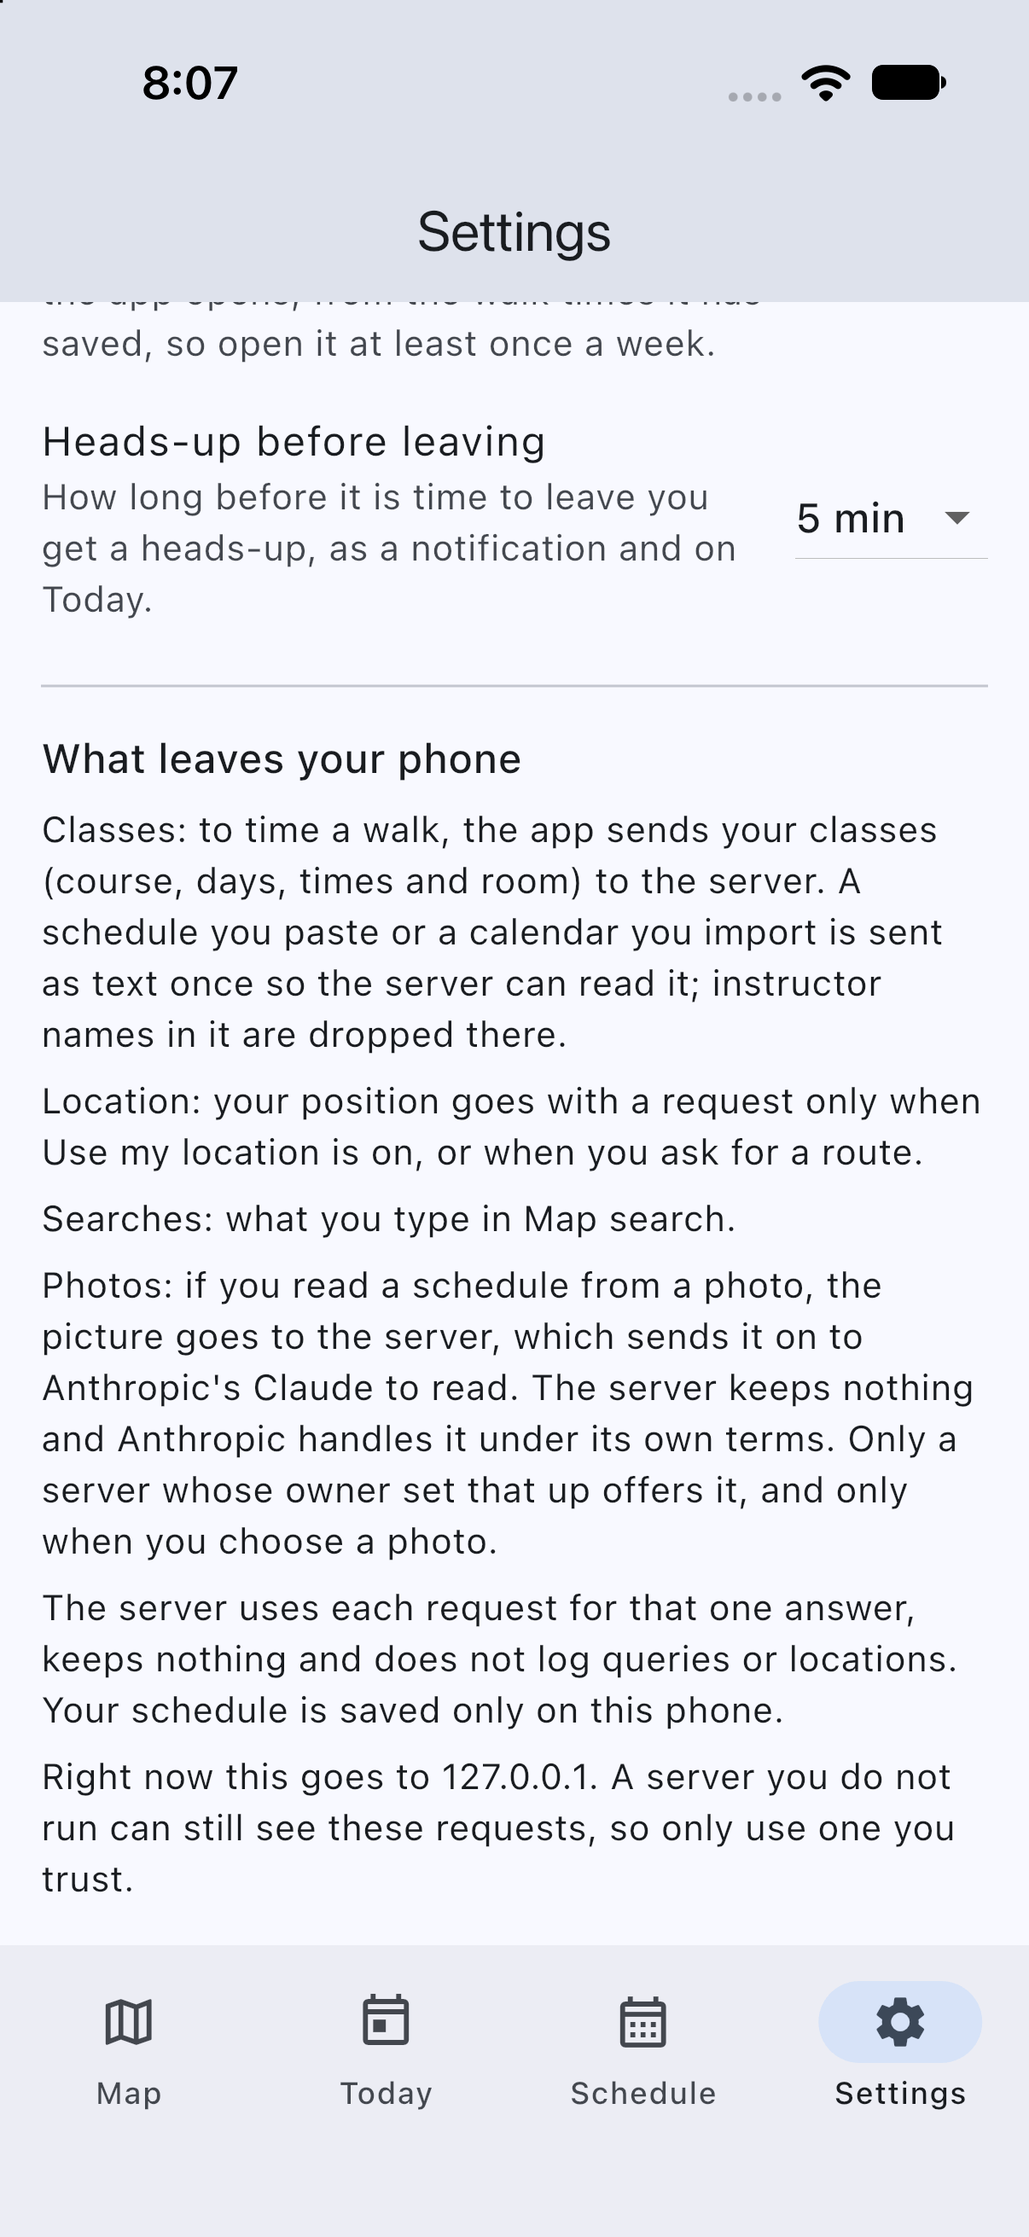
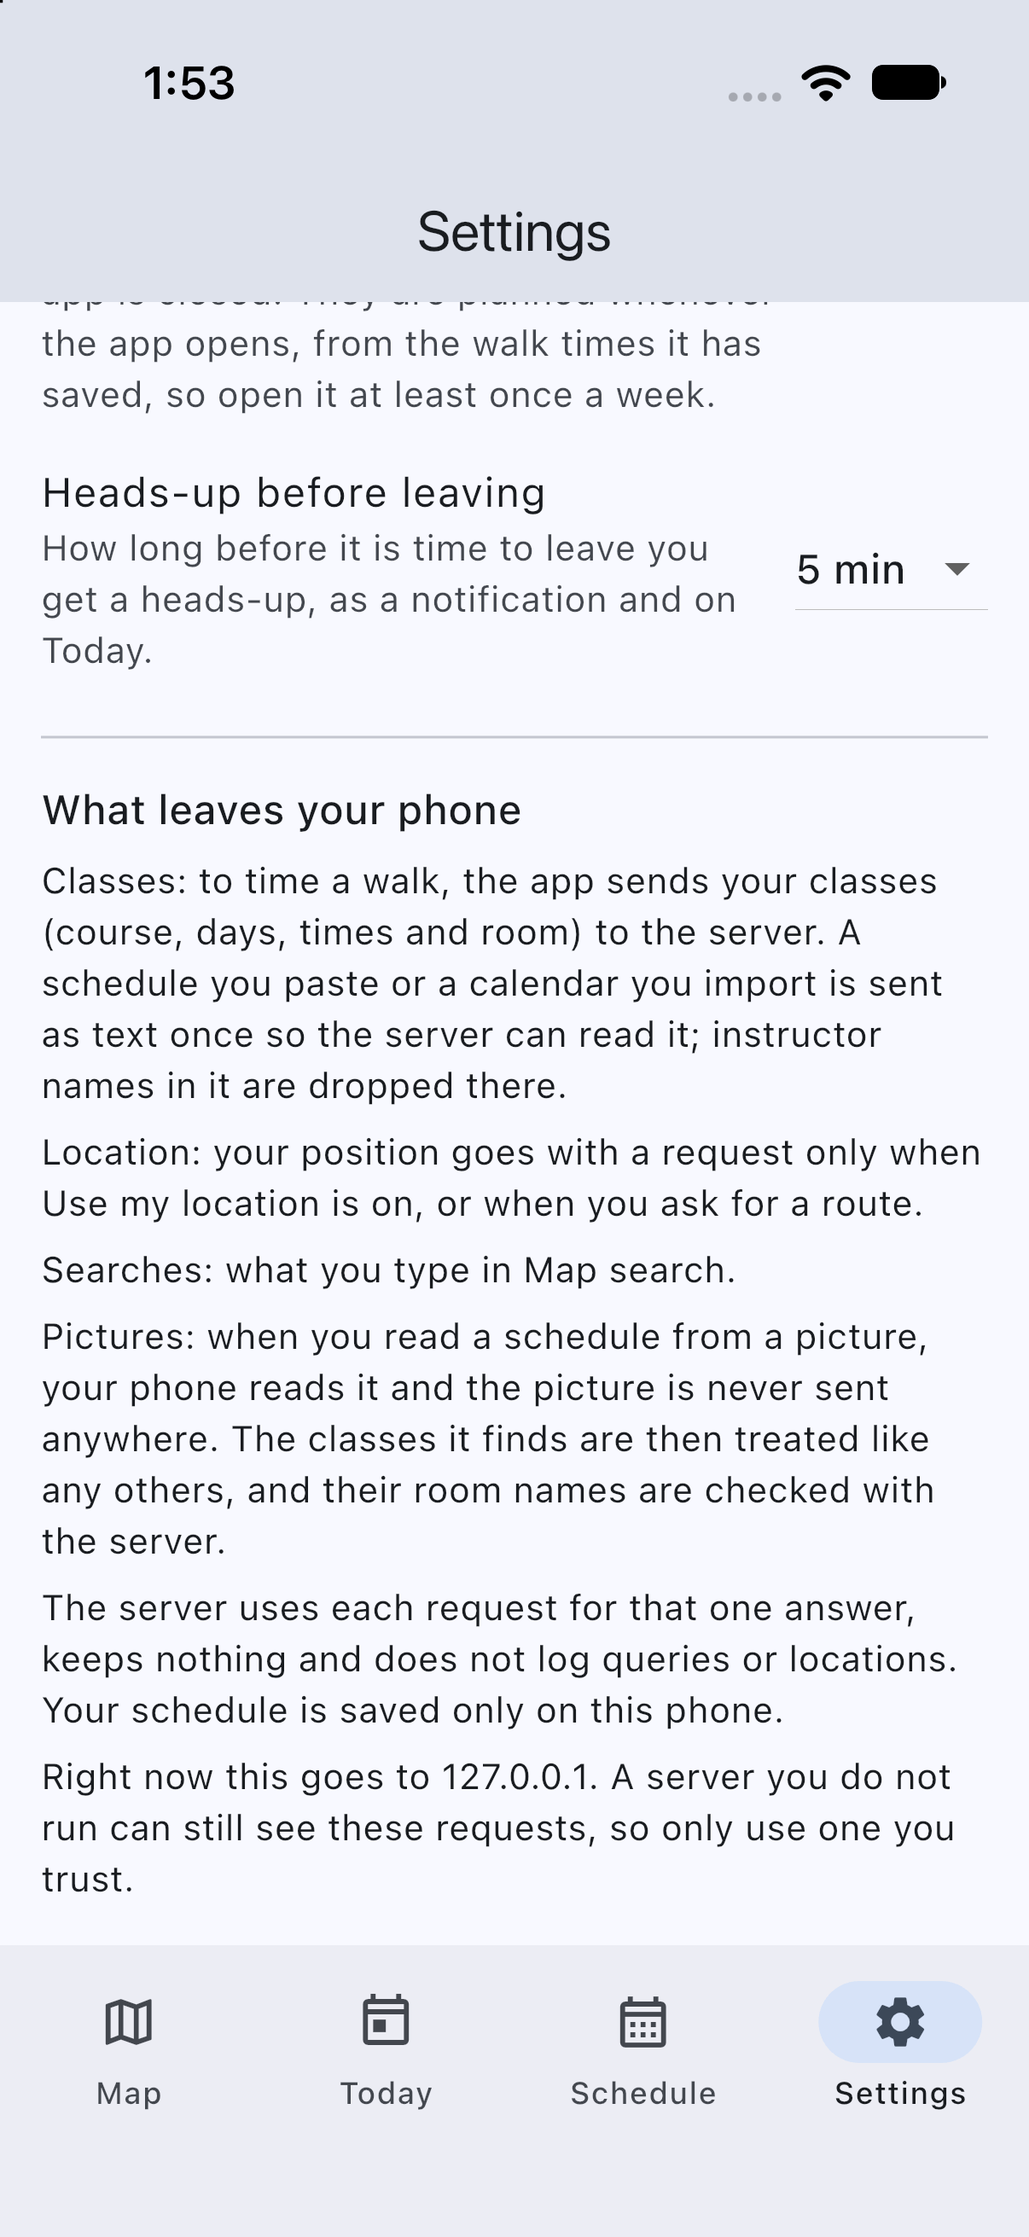
docs: describe reading a schedule from a picture

diff --git a/README.md b/README.md
@@ -6,7 +6,7 @@ Many UCSC classrooms (Baskin Engineering, Thimann Labs, and more) don't appear i
 
 - **Map**: search a room or building ("BE 152", "kresge 3201", "Thimann 101"), see where it is, get a route. No schedule or sign-up needed.
 - **Today**: import your class schedule and see what's now and next, how long the walk is, whether you have time, and when to leave. Works offline from saved walk times.
-- **Schedule**: paste your MyUCSC schedule, import a calendar (`.ics`) file, or add classes by hand. It stays on your phone.
+- **Schedule**: paste your MyUCSC schedule, import a calendar (`.ics`) file, read a screenshot or photo of it (on iOS, on the phone itself: free, private, works offline, needs no account or key), or add classes by hand. It stays on your phone.
 
 | Map search | Route | Today | Offline | Week view |
 |---|---|---|---|---|
@@ -16,17 +16,50 @@ _Captured on 2026-10-19 in the iOS Simulator (iPhone 17) with the simulator's lo
 
 ## Status
 
-As of October 2026. The routing engine, server, data pipeline and Android/iOS app code are working and tested (hundreds of automated tests across C, Python and Dart, run in CI). The app is covered by widget tests and by integration tests that run in the iOS Simulator ([how](docs/developer-notes.md#simulator-checks)). It has **not been run on a physical device**, so real GPS accuracy and notification timing are unverified, and notifications were not exercised in the simulator either. Photo import (screenshot to schedule) reads the picture on the phone, and has only been tried on invented schedules in the Simulator, see [developer notes](docs/developer-notes.md#photo-import).
+As of October 2026. The routing engine, server, data pipeline and Android/iOS app code are working and tested (hundreds of automated tests across C, Python and Dart, run in CI). The app is covered by widget tests and by integration tests that run in the iOS Simulator ([how](docs/developer-notes.md#simulator-checks)). It has **not been run on a physical device**, so real GPS accuracy and notification timing are unverified, and notifications were not exercised in the simulator either. Photo import (screenshot to schedule) reads the picture on the phone and has only been tried on invented schedules in the Simulator, see [Reading a schedule from a picture](#reading-a-schedule-from-a-picture).
 
 | Area | State |
 |---|---|
 | Room and building search | Working: abbreviations, partial names, typos (`/api/search`) |
 | Routing | Working: real walking paths from OpenStreetMap, elevation-aware effort, optional avoid-stairs. Straight-line distance inside buildings; floors are shown but not routed |
 | Today, week view, schedule import (paste, calendar file, by hand), reminders, day picker | Working. Reminders cover every class over the next week and are planned when the app opens; delivery is not verified on a device |
-| Photo import | iOS only. "Read a photo" on the Schedule tab reads a screenshot or photo on the phone with Apple's Vision framework, then lists the classes for you to check before anything is saved. The picture never leaves the phone, and no account or key is involved. Tried only on invented schedules in the Simulator, not on a real device or a real schedule. Not available on Android |
+| Photo import | iOS only. "Read a photo" on the Schedule tab reads a screenshot or photo on the phone with Apple's Vision framework, then lists the classes for you to check before anything is saved. The picture never leaves the phone, and no account or key is involved. Measured on invented schedules in the Simulator ([results](#reading-a-schedule-from-a-picture)); not tried on a real device, a real photo or a real schedule. Not available on Android |
 | Offline | Today works offline; search, map and routes need the server |
 | Data | 32 buildings and the 87 general-assignment classrooms. Other rooms resolve to their building's nearest door |
 | Not built | Saved places, campus shuttle/bus, a map overlay of buildings and doors |
+
+## Reading a schedule from a picture
+
+On iOS, **Read a photo** on the Schedule tab takes a screenshot or photo of your schedule (the MyUCSC Class Schedule page, or a phone calendar or timetable app). The phone reads it itself with Apple's Vision text recognition, and Dart code in the app turns the text into classes. It is free and needs no account or key, and the reading itself works offline. The picture never leaves the phone; afterwards only the room names it found are sent to the server, to check that it can place them, as it does for any class. (Without the server you can still choose the dates and save what was read.)
+
+| Check your classes | A class to look at |
+|---|---|
+| <img src="docs/screenshots/12-import-review.png" width="200" alt="The Check your classes screen listing three classes read from an invented picture"> | <img src="docs/screenshots/13-import-marked.png" width="200" alt="A class marked for the student to look at, with the room search's match one tap away"> |
+
+Nothing is saved until you tap Save on the **Check your classes** screen:
+
+- Each class can be edited (course, type, days, times, room, dates) or removed, with Undo. Cancel throws the whole import away.
+- A class the reading was not sure of is outlined and says why (`The days may be wrong`, `AM or PM was guessed`). A class that cannot be saved yet, such as one with no times, is outlined in red and Save waits.
+- A room the server cannot place is marked. The room search's best match is one tap away (`Use Porter Academic Building 148`), and `Find the room` opens the full search.
+- A picture that shows no dates (the card layouts tried here showed none) takes the term's dates from the server, or you choose them.
+
+**How well it works.** Invented schedules were drawn in six layouts (MyUCSC's page at several sizes, phone-style cards in light and dark, a compact table, an export with a row for each day, cards with everything on one line, and cards that label each field), read through the app in the iOS Simulator with the real Vision framework and a local server, and the review screen was compared with what each picture says. A class counts as right only if its course, days, start, end and room text all match. Each set was 23 pictures that had not been read before:
+
+| Layout | Set 1, before any fix | Set 2, after set 1's fixes | Set 3, final code |
+|---|---|---|---|
+| MyUCSC Class Schedule page | 20 of 26 | 18 of 30 | 28 of 28 |
+| Phone cards | 16 of 16 | 16 of 16 | 16 of 16 |
+| Compact table | 34 of 36 | 29 of 31 | 37 of 37 |
+| One row for each day | 20 of 23 | 20 of 21 | 20 of 20 |
+| Days, times and room on one line | 29 of 30 | 27 of 29 | 29 of 29 |
+| Cards that label each field | 12 of 12 | 12 of 12 | 11 of 12 |
+| **All** | **131 of 143 (92%)** | **122 of 139 (88%)** | **141 of 142 (99%)** |
+
+Set 1's mistakes led to the first repairs and set 2's to the rest; set 3 was read once, on the final code. Every wrong class was marked for review except two in set 1, where a course number read with a letter O split one class in two. The mistakes were mostly letters misread in room names (`Clrm` read as `CIrm`), an end time the phone did not read, and table headings it misread. In set 3, 24 of the 141 right classes were marked anyway, 17 of them because the server's schedule reader did not know the way the picture wrote a room (`BE 156` where it expects `J Baskin Engr 156`); the room search finds those.
+
+These are invented pictures in fonts and layouts the project chose, so they flatter real use: they say nothing about glare, a tilted photo of a screen, heavy compression, another app's layout or any language but English. It has not been tried on a real device, a real photo or a real schedule, and the system photo picker, a photo kept only in iCloud and a HEIC photo from the camera were not exercised. The pictures and the scripts that drew and scored them are not in the repository; the readings recorded from 22 pictures like them are, in `app/test/fixtures/ocr`, and run in CI. Reading takes about a second in the Simulator on a Mac. Android has no reader yet, so the button is not shown there.
+
+A picture that cannot be read says so and adds nothing: one with no text, text that is not a schedule, a blurry picture, or one over 120 megapixels. A very large picture is shrunk before it is read, and a table cut off part way down gives the rows that are there; each of these was tried in the Simulator.
 
 ## How it works
 

diff --git a/app/README.md b/app/README.md
@@ -10,7 +10,7 @@ Your classes, the walk to each, and when to leave. It is a thin client for the p
 - **Works offline**: when the server can't be reached, Today lists your classes, says what is now and next, and gives the walk times saved from the last time it could be reached (`WalkCache`). A blue "Offline" card at the top says so and how long ago the walk times were last updated (a warning once they are a week old), and the walk is worded "Saved walk time" so it is not mistaken for a live one. "Try again" asks the server again. Reminders already set stay set. It uses a Dart copy of the server's timetable logic; both are tested against the same cases in `server/testdata/schedule_cases.json`. A class you have never seen a walk time for shows no walk until you are back online.
 - **Saved view while the server answers**: when the phone already has walk times saved, Today shows them at once under an "Updating…" card instead of a bare spinner, and replaces them when the server answers (useful when a sleeping host takes a minute).
 - **Schedule**: paste from MyUCSC, import a calendar (.ics) file, read a picture of it, or add a class by hand. Saved on the phone only; instructor names are never kept.
-- **Read a photo** (iOS): choose a screenshot or photo of the schedule from the photo library and the phone reads it itself with Apple's Vision framework, then Dart code (`lib/features/schedule/ocr/`) rebuilds the classes from the lines and word positions it returns. The picture and its text never leave the phone, nothing is installed or paid for, and it works offline; only the room names are checked with the server afterwards. A "Check your classes" screen lists what was found before anything is saved: each class can be edited or removed, classes the reading was not sure of are marked with why, a room the server does not recognise offers the Map's room search, and classes with no dates in the picture take the term's. The button is not shown on Android, which has no reader yet.
+- **Read a photo** (iOS): choose a screenshot or photo of the schedule from the photo library and the phone reads it itself with Apple's Vision framework, then Dart code (`lib/features/schedule/ocr/`) rebuilds the classes from the lines and word positions it returns. The picture and its text never leave the phone, nothing is installed or paid for, and it works offline; only the room names are checked with the server afterwards. A "Check your classes" screen lists what was found before anything is saved: each class can be edited or removed, classes the reading was not sure of are marked with why, a room the server does not recognise offers the room search's best match with one tap, or the full room search, and classes with no dates in the picture take the term's. The button is not shown on Android, which has no reader yet.
 - **Settings**: server address (with a connection test), whether to use your location, and how early the "leave soon" banner appears. With location on, the phone is asked where it is only while a walk from there could matter (a class still to start today and none in progress), and a fix is reused for two minutes.
 
 - **Route map**: "Show route" on the walk card (or the map button on any class) draws the walk from where you are to the best door, with distance and minutes. Dotted lines join you and the door to the nearest path points.
@@ -33,7 +33,7 @@ Without configuration the map uses OpenStreetMap's public tile server, which is 
 The icon (a dotted walk to a gold pin on UCSC blue) and the launch image are drawn by `scripts/make_icon.swift` and written at every size the iOS and Android projects need by `scripts/make_icons.sh` (macOS; it needs `swift` and `sips`). To change them, edit the drawing and run the script from the repo root; nothing else needs touching. The launch screen's blue is set in `ios/Runner/Base.lproj/LaunchScreen.storyboard`.
 
 ### When the hosted server is asleep
-The default server is on a free plan that sleeps when idle and needs up to a minute to wake. The app sends an empty `GET /healthz` when it opens and when it returns to the foreground, so the wake-up starts before you need an answer. Every screen that waits on the server (Today, Map search, routes, schedule import, Settings) says so after four seconds. Requests that can safely be repeated (all reads, the Today calculation and the schedule checks, never photo import) are tried again once after a timeout (45 s per try) or a refused connection, and up to twice after a 502, 503 or 504. Today shows the saved view instead (see "Works offline") if the server still does not answer.
+The default server is on a free plan that sleeps when idle and needs up to a minute to wake. The app sends an empty `GET /healthz` when it opens and when it returns to the foreground, so the wake-up starts before you need an answer. Every screen that waits on the server (Today, Map search, routes, schedule import, Settings) says so after four seconds. Requests that can safely be repeated (all reads, the Today calculation and the schedule checks) are tried again once after a timeout (45 s per try) or a refused connection, and up to twice after a 502, 503 or 504. Today shows the saved view instead (see "Works offline") if the server still does not answer.
 
 ## Run it
 Run the app (the hosted server is used by default):
@@ -52,7 +52,7 @@ flutter run --dart-define=SERVER_URL=http://10.0.2.2:8000
 Plain `http` is allowed only in debug builds (for the dev machine). A release build needs an `https` server address, such as the hosted deployment in `docs/hosting.md`.
 
 ## Code layout
-`lib/core` (API client, address cleanup, time formatting) and `lib/features/{today,schedule,settings,location}`. State uses Riverpod notifiers with a repository per feature, so screens and controllers are tested against fakes, and models are tested against JSON captured from the real server (`test/fixtures`, built from an invented schedule). `server/test_app_contract.py` in the parent repo replays the same questions against the current server and fails if a fixture's field is gone or changes type.
+`lib/core` (API client, address cleanup, time formatting) and `lib/features/{today,schedule,settings,location}`. Reading a picture is in `lib/features/schedule/ocr` (the Vision channel, the picker and the parser) and `lib/features/schedule/review` (the screen where classes are checked). State uses Riverpod notifiers with a repository per feature, so screens and controllers are tested against fakes, and models are tested against JSON captured from the real server (`test/fixtures`, built from an invented schedule). `server/test_app_contract.py` in the parent repo replays the same questions against the current server and fails if a fixture's field is gone or changes type.
 
 ```bash
 flutter analyze

diff --git a/docs/developer-notes.md b/docs/developer-notes.md
@@ -111,7 +111,9 @@ You can add your schedule from a screenshot or photo of the MyUCSC Class Schedul
 
 **In the browser.** The browser reads the text itself with [Tesseract.js](https://github.com/naptha/tesseract.js), so the picture never leaves your computer. The first time it downloads the text reader (about 10 MB) from a public CDN; the file is checked against a fixed hash before it runs. Plain text recognition scrambles this table, because cells wrap onto two lines ("Mo 8:00AM -" over "9:05AM"), so the server rebuilds the rows and columns from the *positions* of the words: each class is anchored by its class number, and each word is assigned to the nearest row and the column heading above it (`server/ocr_table.py`). The picture is measured and enlarged to a size the reader handles well, and if some rows can't be read it tries again at a different size and combines the results. Common misreads are repaired where the kind of text is known (a letter O in a time, `O01A` for a section), and a room that is exactly one character away from exactly one real room in that building is corrected with a note (`Cowell Acad 13` becomes `113`). Anything it can't read is reported and the rebuilt text is put in the paste box for you to fix. It works best on a screenshot; a crooked or blurry photo of a screen will do worse. Always check the result against your picture.
 
-**In the app (iOS).** The phone reads the text with Apple's Vision framework and Dart code rebuilds the classes from the lines and word positions it returns (`app/lib/features/schedule/ocr/`). The picture and its text never leave the phone, and a review screen lists what was found before anything is saved. See [app/README.md](../app/README.md).
+**In the app (iOS).** The phone reads the text with Apple's Vision framework (`.accurate`, language correction on) through a small Swift channel, `app/ios/Runner/TextRecognizer.swift`, which returns each recognized line and its words with a box and a confidence; a picture is decoded at no more than 4096 pixels on its longest side, and one over 120 megapixels is refused. Dart code in `app/lib/features/schedule/ocr/` rebuilds the classes from those lines: `layout.dart` groups words into lines by position, `table_reader.dart` reads a table by its headings (taking a heading the phone dropped from the page's other tables), `block_reader.dart` reads anything else around its time ranges, `fields.dart` has the readers for days, times, courses, sections, dates and rooms with their repairs, and `row_builder.dart` gives each class a confidence and the reasons it is not sure. `app/lib/features/schedule/review/` is the screen where the classes are checked: rooms are asked of `/api/resolve`, the room search's first match is offered when one is not found, and the term comes from `/api/meta`. The picture and its text never leave the phone. A reading is tested from `RecognizedText.toJson()` of what Vision returned in the Simulator, saved with the rows it should give in `app/test/fixtures/ocr` (22 of them, from invented schedules), and by `app/test/ocr_*_test.dart` and `app/test/picture_import_test.dart`. Android has no reader: `pictureImportAvailableProvider` is false there and the button is not shown.
+
+Known limits: only invented schedules have been read, so real photos (glare, tilt, compression), a real device, the system photo picker, a photo kept only in iCloud and HEIC from the camera are unverified; only the photo library is offered, not the camera; a room the picture writes in a form the server's schedule reader does not know is saved as written, unless the student takes the room search's match; and the accuracy figures in the README are for pictures drawn by a script that is not in the repository.
 
 The engine's `--explored` flag (with `--json`) is what feeds the visualization: it lists the settled nodes in the order they were settled.
 
@@ -230,6 +232,8 @@ flutter drive --driver=test_driver/integration_test.dart --target=integration_te
   --use-application-binary=build/ios/iphonesimulator/Runner.app \
   --dart-define=SERVER_URL=http://127.0.0.1:8000 --dart-define=SHOT_DIR=$PWD/../docs/screenshots
 ```
+
+`picture_import_test.dart` and `ocr_test.dart` use the real Vision framework, so they need the simulator; the first also needs the local server for the room checks, and neither needs location: run `flutter test integration_test/picture_import_test.dart -d <id>` (a screenshot is only taken when `SHOT_DIR` is set, as above).
 
 For `offline_test.dart` build and run the same way with `SERVER_URL=http://127.0.0.1:1` (nothing listens there). The permission is granted after installing the prebuilt app because `flutter test` reinstalls the app and loses the grant, which leaves the system prompt over the screen. `binding.takeScreenshot` returned blank images after the first one here, so screenshots are taken by the host script with `xcrun simctl io`. Notification permission cannot be granted with `simctl privacy`, so reminders are not covered. The tests check widget text, not pixels; look at the screenshots for layout.
 
